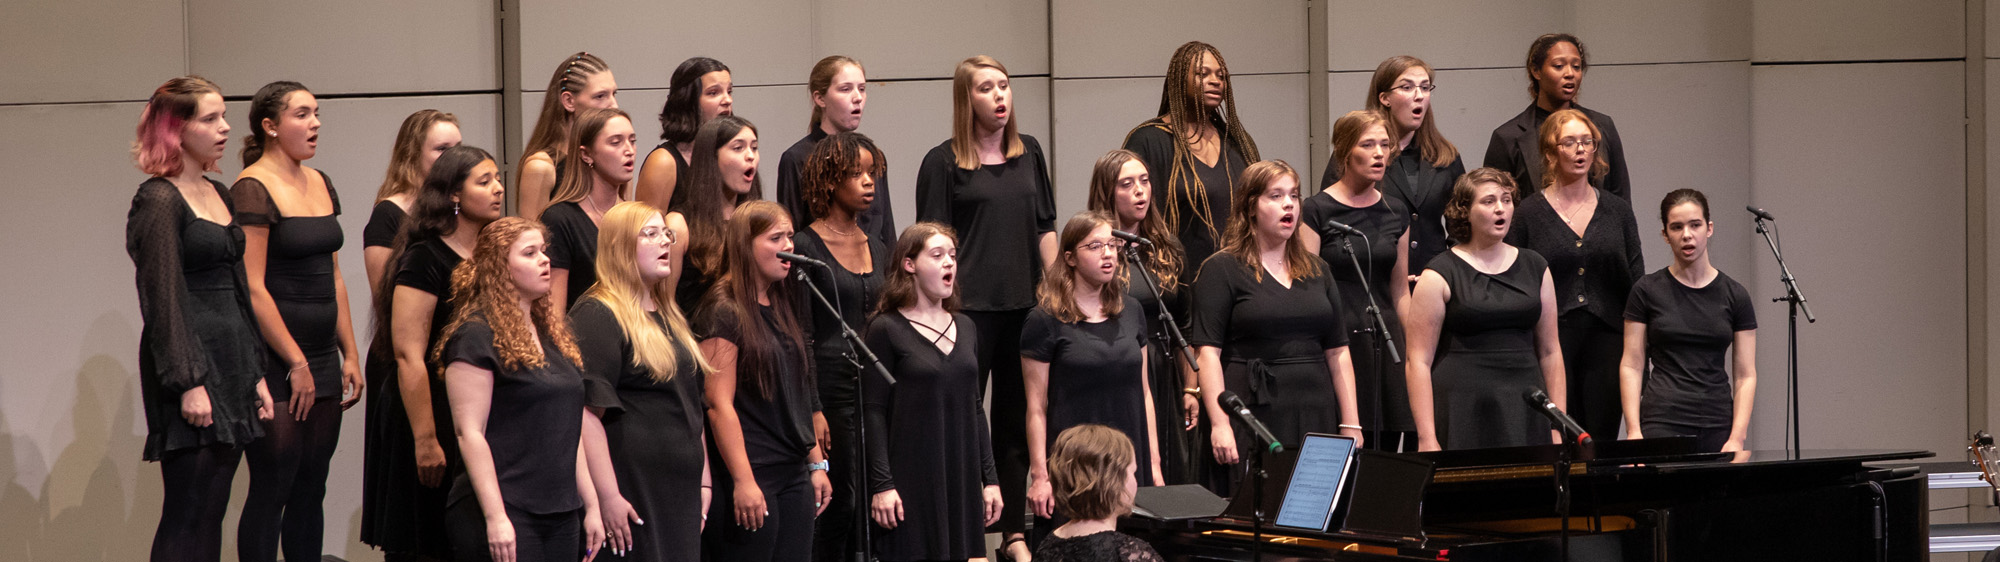
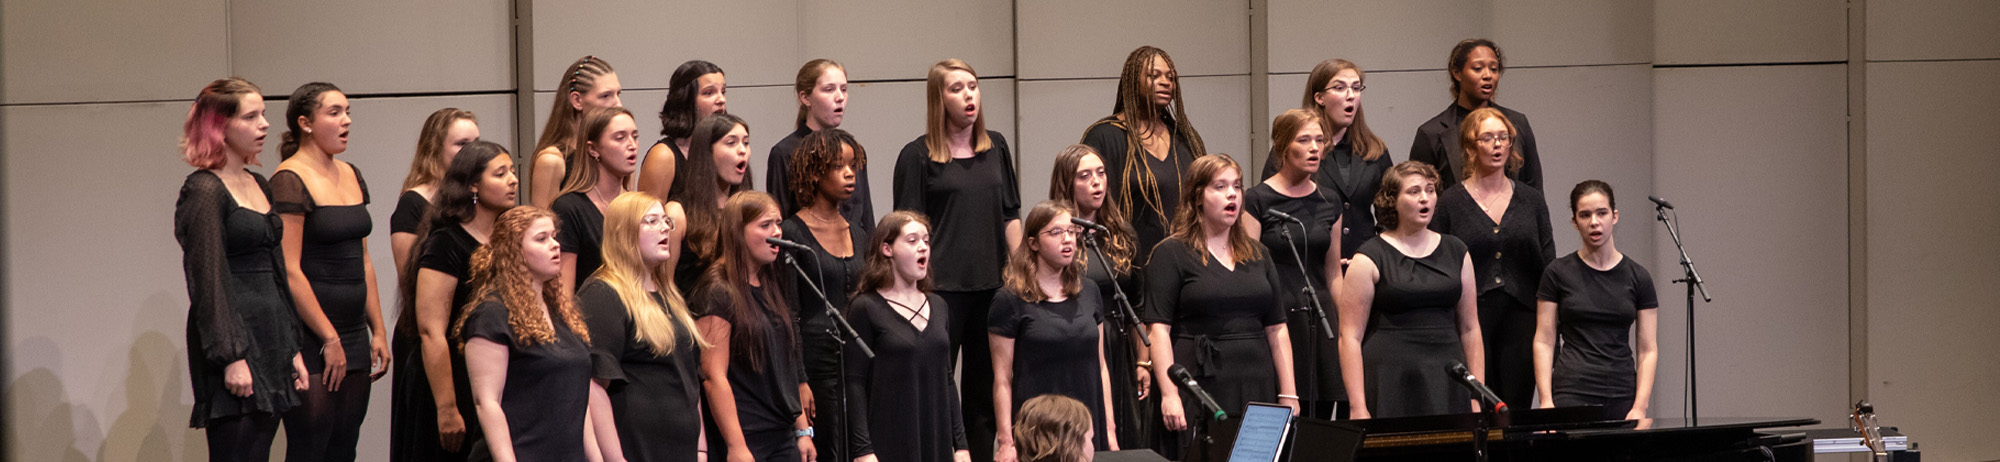
adding pictures and formatting

diff --git a/src/pages/stylesheets/ensemble-page.css b/src/pages/stylesheets/ensemble-page.css
@@ -8,7 +8,7 @@
 }
 
 .ensemble-subwrapper {
-    min-height: 85vh;
+    min-height: 83vh;
     overflow-x: hidden;
     overflow-y: scroll;
     display: flex;
@@ -18,7 +18,7 @@
 
 .cantorei-feature {
     width: 100vw;
-    min-height: 28.125vw;
+    min-height: 23.1vw;
     background-image: url('../../images/cantorei-wide.jpg');
     background-size: cover;
     display: flex;
@@ -28,7 +28,7 @@
 
 .singers-feature {
     width: 100vw;
-    min-height: 28.125vw;
+    min-height: 23.1vw;
     background-image: url('../../images/singers-wide.jpg');
     background-size: cover;
     display: flex;
@@ -38,7 +38,7 @@
 
 .mens-feature {
     width: 100vw;
-    min-height: 28.125vw;
+    min-height: 23.1vw;
     background-image: url('../../images/mens-wide.jpg');
     background-size: cover;
     display: flex;
@@ -48,7 +48,7 @@
 
 .womens-feature {
     width: 100vw;
-    min-height: 28.125vw;
+    min-height: 23.1vw;
     background-image: url('../../images/womens-wide.jpg');
     background-size: cover;
     display: flex;
@@ -108,10 +108,10 @@
     padding-top: 10px;
 }
 
-/* #singers-foot, #mens-foot, #womens-foot {
+#singers-foot, #mens-foot, #womens-foot {
     position: absolute;
     bottom: 0;
-} */
+}
 
 @media only screen and (max-width: 906px) {
 

diff --git a/src/pages/mens-choir.js b/src/pages/mens-choir.js
@@ -37,7 +37,7 @@ const MensChoir = () => {
                 </div>
                 <div className="ensemble-right">
                     {/* <AudioPanel title={"Evening Gale Mvt. 1,"} subtitle={"“Night Song”"} audio={nightSong} bodytext="“Night Song” is the first movement in a three movement piece titled “Evening Gale” by Dr. Anthony Bernarducci. “Evening Gale” was premiered by Cantorei in the fall of 2019."/> */}
-                    <VideoPanel title={"Wild Mountain Thyme & O Mistress Mine"} subtitle={""} video={"https://www.youtube.com/embed/ymT4mUm8_aQ"} bodytext="The CU Men's Choir performed “Wild Mountain Thyme” arranged by Karen Marrolli and “O Mistress Mine” by Matthew Harris in the spring of 2021 to celebrate the 125th anniversary of the choir."/>
+                    <VideoPanel title={"Wild Mountain Thyme & O Mistress Mine"} subtitle={""} video={"https://www.youtube.com/embed/ymT4mUm8_aQ"} bodytext="The CU Men's Choir performs “Wild Mountain Thyme” arranged by Karen Marrolli and “O Mistress Mine” by Matthew Harris in the spring of 2021."/>
                 </div>
             </div>
             </div>

diff --git a/src/pages/stylesheets/auditions.css b/src/pages/stylesheets/auditions.css
@@ -41,8 +41,8 @@
 
 .audition-content {
     display: flex;
-    margin-top: 10px;
-    width: 80vw;
+    margin: 10px;
+    padding: 0 10vw;
 }
 
 .audition-left {
@@ -72,8 +72,9 @@
 }
 
 .audition-instructions {
-    width: 80vw;
-    margin-bottom: 30px;
+    margin: 10px 10px 20px;
+    padding: 0 10vw;
+    width: 79vw;
     display: flex;
     flex-direction: column;
 }
@@ -89,7 +90,7 @@
 
 .instruction-panels {
     display: flex;
-    width: 80vw;
+    /* width: 80vw; */
     max-width: 1180px;
     align-self: center;
     justify-content: space-evenly;
@@ -97,7 +98,7 @@
 }
 
 .sheet-music {
-    width: 80vw;
+    /* width: 80vw; */
 }
 
 .sheet-music h3 {
@@ -110,7 +111,7 @@
 }
 
 .starting-pitches {
-    width: 80vw;
+    /* width: 80vw; */
 }
 
 .starting-pitches h3 {
@@ -134,7 +135,7 @@
 }
 
 .next-steps {
-    width: 80vw;
+    /* width: 80vw; */
 }
 
 .next-steps h2 {

diff --git a/src/components/stylesheets/media-panels.css b/src/components/stylesheets/media-panels.css
@@ -6,7 +6,7 @@
     height: auto;
     width: 340px;
     box-shadow: 5px 5px 5px #424242;
-    margin: 10px 0;
+    margin: 15px 0;
 }
 
 .media-panel .text {
